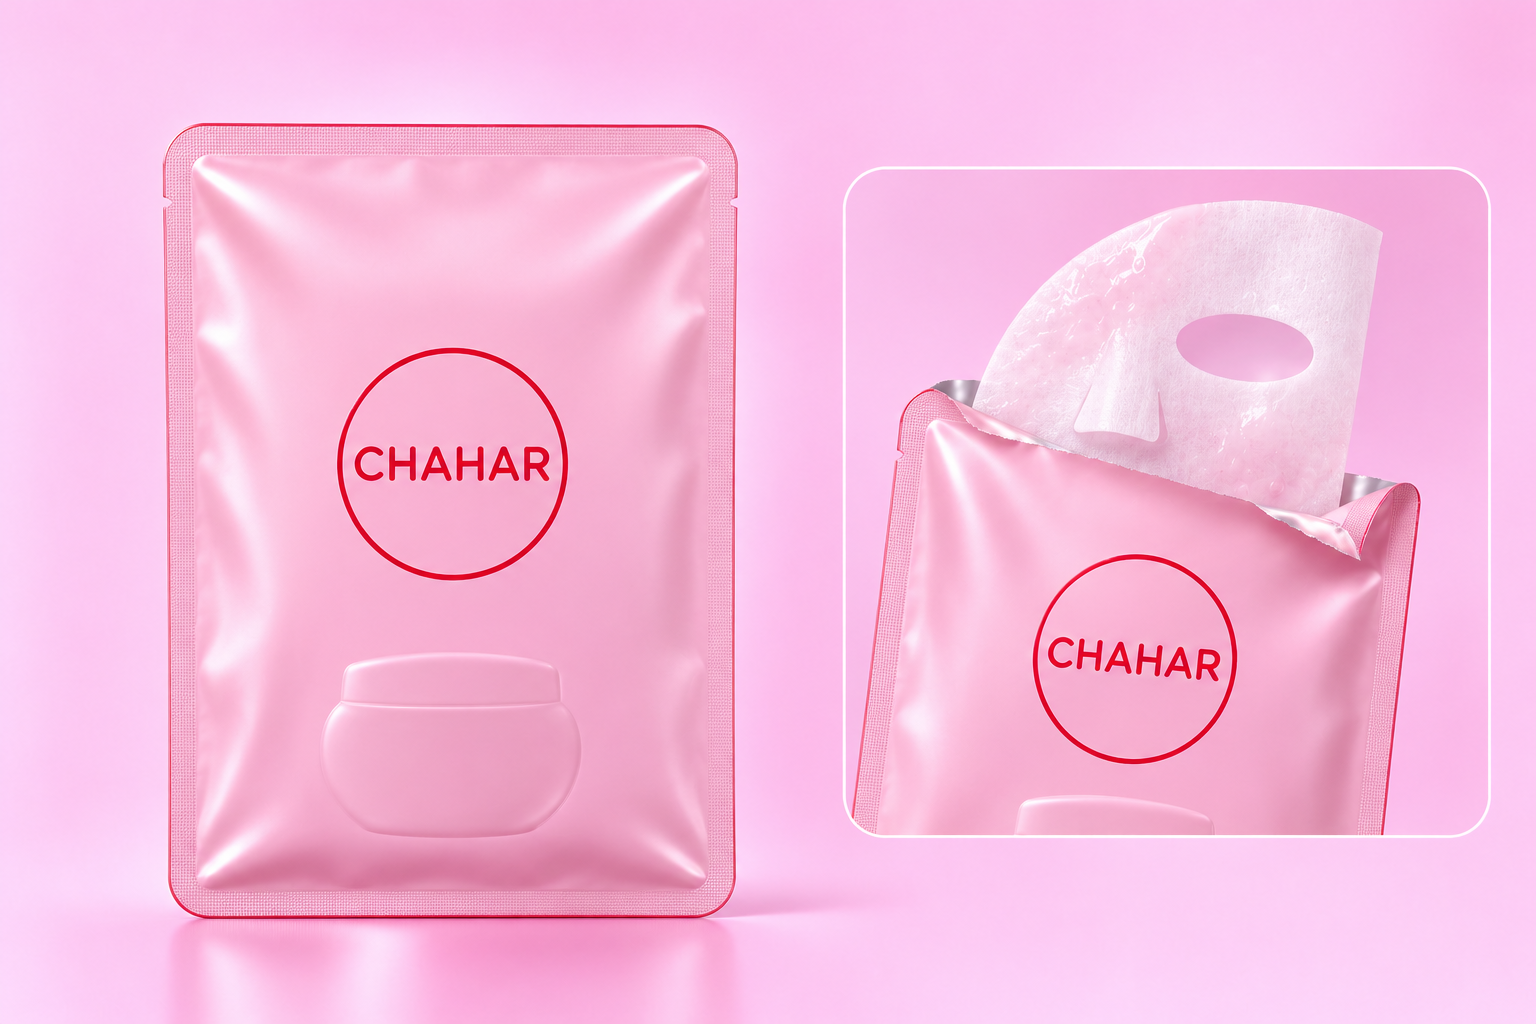
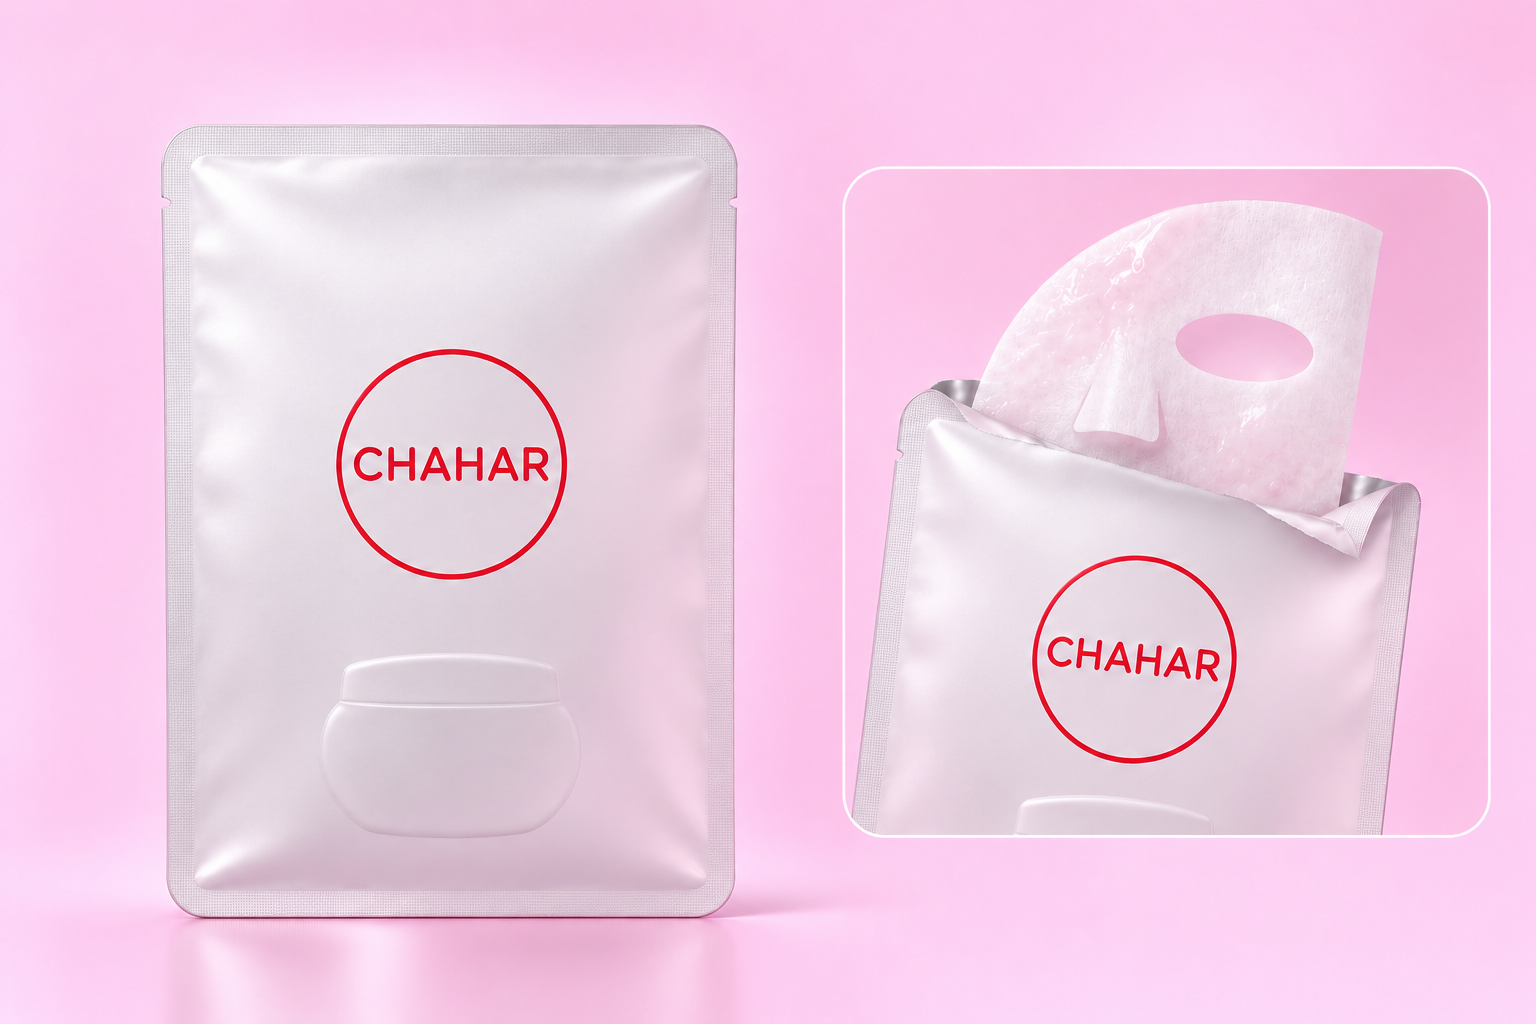
[MEJ] 마스크팩 파우치 새틴 실버 포일 질감 적용

diff --git a/IMAGE/추가샘플1/README.md b/IMAGE/추가샘플1/README.md
@@ -6,7 +6,7 @@
 | 제품 | 파일 | 구성 |
 |---|---|---|
 | 클렌저 | [튜브형](CHAHAR_클렌저_튜브형.png) | 불투명 핑크 튜브·단지형 플립캡, 오른쪽 토출구 상세 |
-| 마스크 | [시트형](CHAHAR_마스크_시트형.png) | 밀봉 파우치, 오른쪽 개봉·시트 상세 |
+| 마스크 | [시트형](CHAHAR_마스크_시트형.png) | 새틴 펄 실버 포일 파우치, 오른쪽 개봉·시트 상세 |
 | 패드 / 패드 팩 | [단지형](CHAHAR_패드_단지형.png) | 불투명 단지, 오른쪽 적층 패드·집게 상세 |
 | 아이크림 | [튜브형](CHAHAR_아이크림_튜브형.png) | 슬림 튜브·단지형 스크루캡, 오른쪽 정밀 토출구 상세 |
 
@@ -16,3 +16,5 @@
 기존 초안·수정1과 다른 작업자의 미커밋 이미지는 유지했습니다. 사이트 표시 연결은 이번 작업에 포함하지 않았습니다.
 
 도구: 내장 image_gen. 실제 제품별 전체 프롬프트와 파일 SHA-256은 [생성기록](생성기록.json)에 보관했습니다.
+
+마스크는 사용자 추가 참고 사진에 따라 펄 실버 화이트 포일 질감으로 수정했습니다. 참고 상표·광고·배지는 사용하지 않았습니다.
